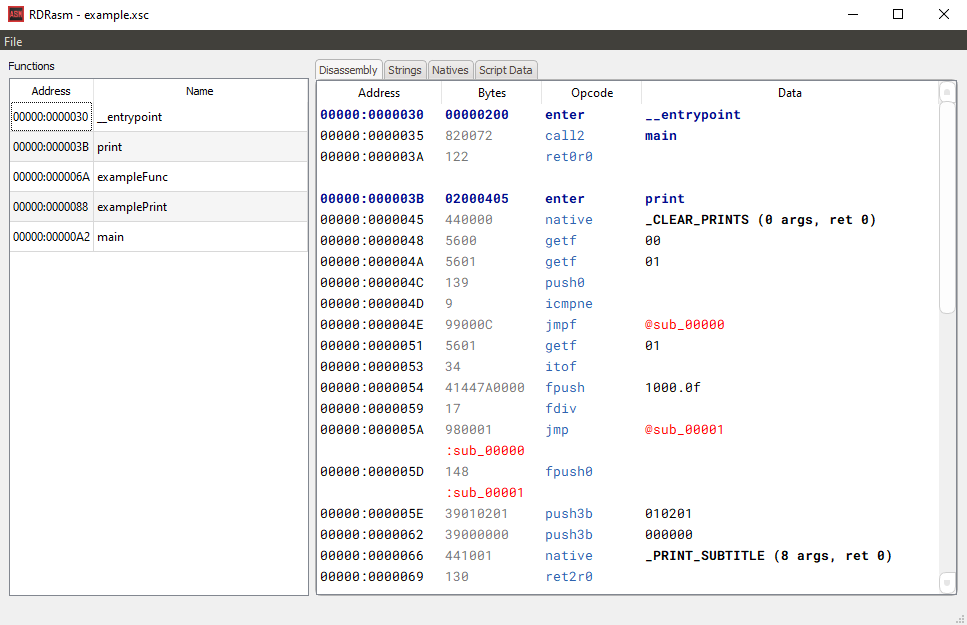
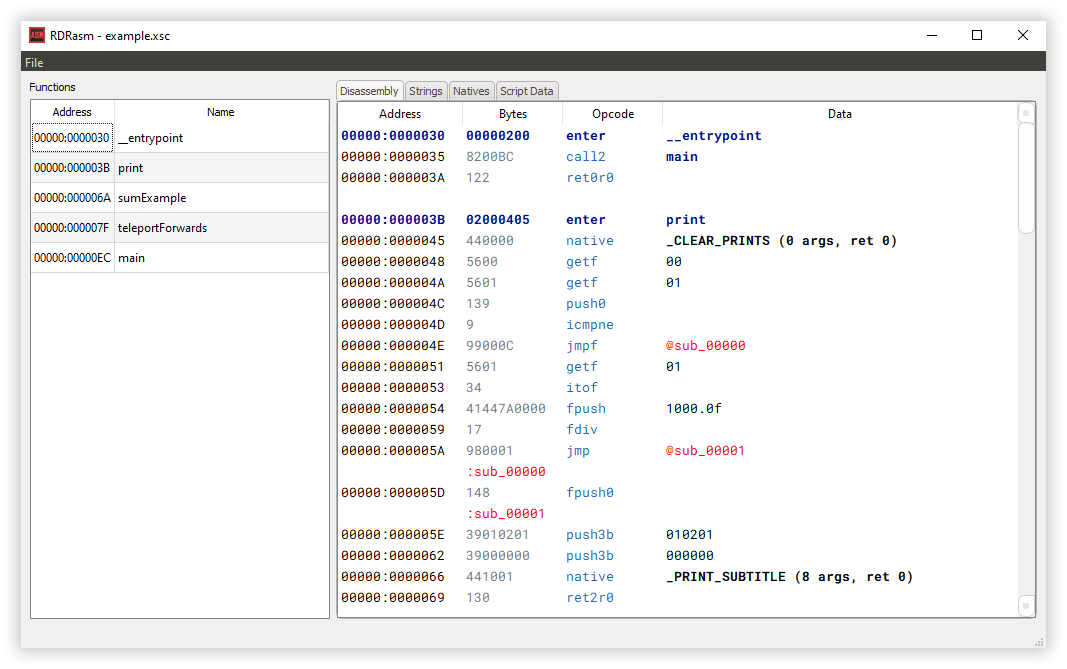
Cleanup

Changed region(s): [[0.0, 0.0, 1.0, 0.9728], [0.6205, 0.6688, 0.7446, 0.6992], [0.9928, 0.9728, 1.0, 1.0]]

diff --git a/example/example.c b/example/example.c
@@ -1,0 +1,61 @@
+#include "types.h"
+#include "constants.h"
+#include "intrinsics.h"
+#include "natives.h"
+#include "common.h"
+
+#define self GET_PLAYER_ACTOR(0)
+
+int sumExample(int val1, int val2)
+{
+	return val1 + val2;
+}
+
+// Example function to teleport the player 2ft in a certain direction
+void teleportInDirection(int teleport_dir)
+{
+    vector3 loc;
+    GET_POSITION(self, &loc);
+
+    float heading = GET_HEADING(self);
+
+    float dist = 2.0;
+
+    float a = dist * SIN(heading);
+    float b = dist * COS(heading);
+
+    switch (teleport_dir)
+    {
+    case 0: // forward
+        loc.x -= a;
+        loc.z -= b;
+        break;
+    case 1: // back
+        loc.x += a;
+        loc.z += b;
+        break;
+    case 2: // up
+        loc.y += 2.0;
+        break;
+    case 3: // down
+        loc.y -= 2.0;
+        break;
+    }
+
+    TELEPORT_ACTOR_WITH_HEADING(self, loc, heading, true, true, true);
+}
+
+void main()
+{
+	float f1 = 0.1f;
+	float f2 = 9999.9f;
+	
+	int i1 = 100;
+	int i2 = 10000;
+
+	int sum = sumExample(i1, i2);
+
+	teleportInDirection(0);
+
+	print("Example print message for 10 seconds", i2);
+}
